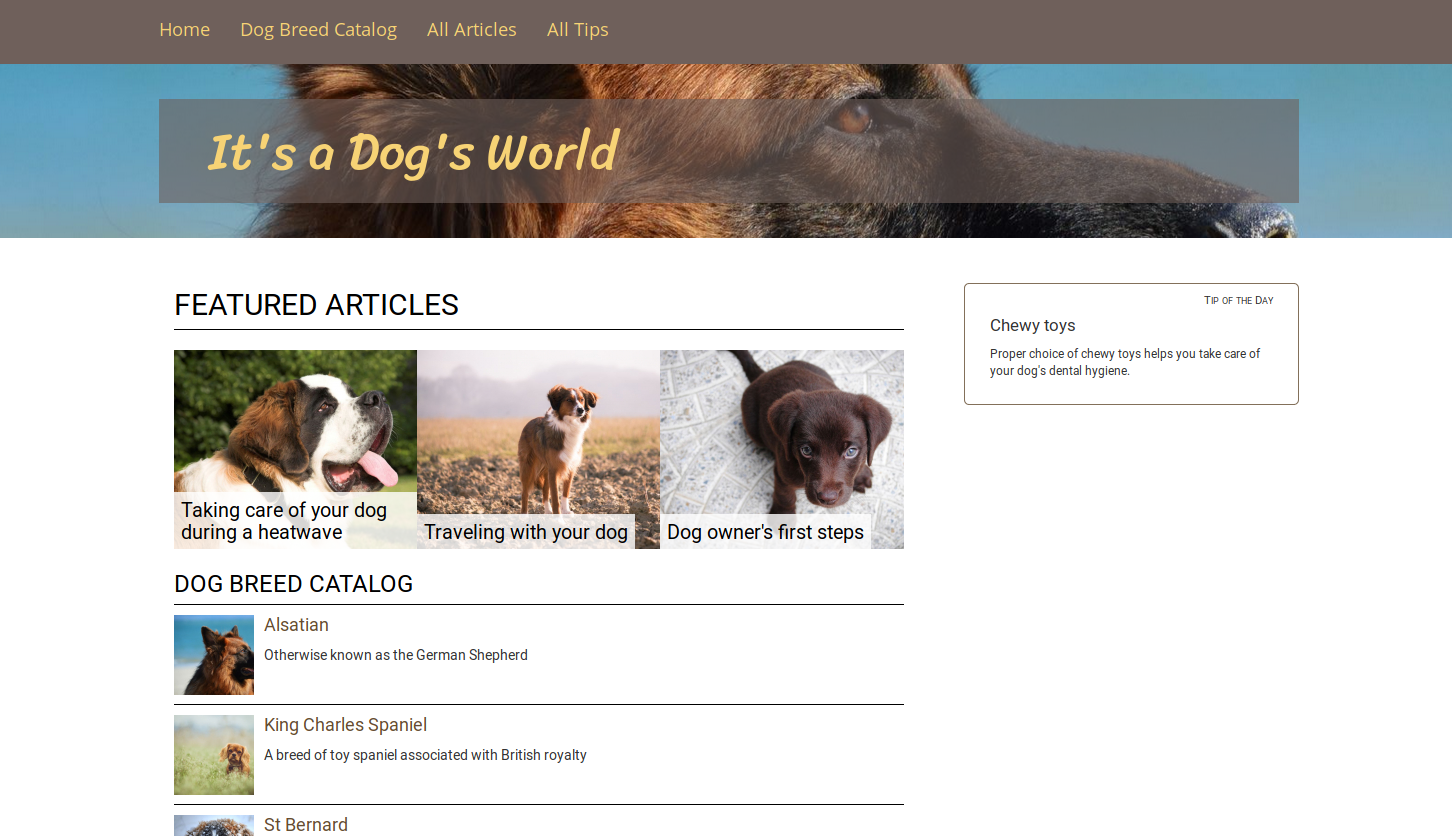
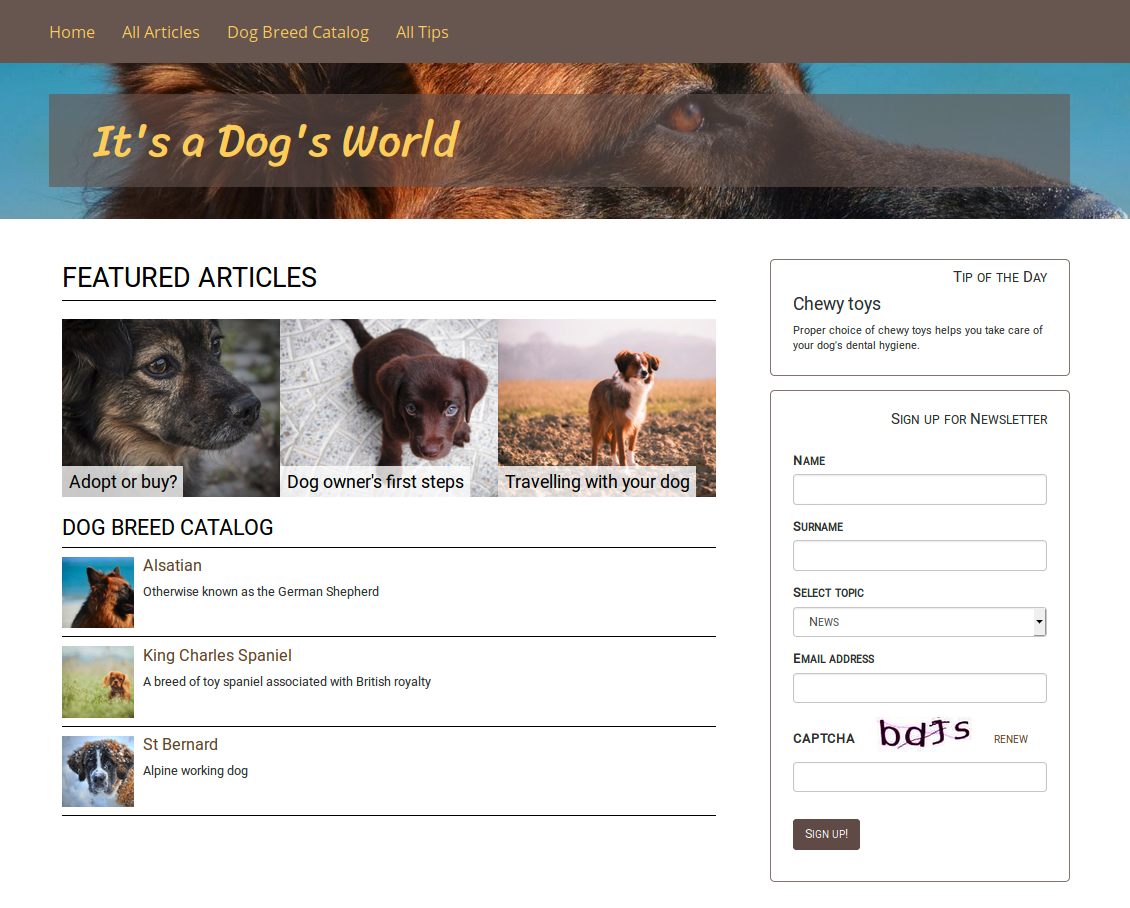
beta1

diff --git a/docs/tutorials/enterprise_beginner/5_create_newsletter_form.md b/docs/tutorials/enterprise_beginner/5_create_newsletter_form.md
@@ -9,7 +9,7 @@ The final step of this tutorial assists you in adding to the home page a Form bl
 
 Start with creating a Form Content item.
 In the **Forms** panel, click **Create** and select **Form**.
-Enter the title, e.g. "Sign up for Newsletter" and click **Create a form**.
+Provide the title, e.g. "Sign up for Newsletter" and click **Create a form**.
 
 In the Form Builder, add and configure (using the **Basic** and **Validation** tabs) the following form fields:
 
@@ -19,26 +19,26 @@ In the Form Builder, add and configure (using the **Basic** and **Validation** t
 |Single line input|Surname|no|Minimum length = 3|
 |Dropdown|Select topic|yes|Options:</br>- News</br>- Tips </br> - Articles|
 |Email|Email address|yes|—|
-|Captcha|CAPTCHA|yes|—|
+|Captcha|CAPTCHA|—|—|
 |Button|Sign up!|—|Action: Show a message</br>Message to display: Thank you!|
 
 The configuration should look like this:
 
 ![Adding Fields to Newsletter Form](img/enterprise_tut_form_creation.png "Adding Fields to Newsletter Form")
 
-After adding all fields, go to the previous menu and click **Publish**.
+When you add all the fields, go to the previous menu and click **Publish**.
 Now you can edit the Front Page and add a Form block below the Random block.
 Edit the block and select the form you created. Click **Submit**.
 
 The Page should refresh with the Form block.
 
-![Newsletter Form Block](img/enterprise_tut_first_form.png "Newsletter Form Block")
+![Newsletter Form Block](img/enterprise_tut_first_form.png "Raw Newsletter Form Block")
 
-It clearly differs from the page design, so let's proceed with customizing the block's layout.
+It clearly differs from the page design, so you also need to customize the block's layout.
 
 ### Change the block template
 
-First, add a new template for the Form block, using a similar design to the Random block.
+First, add a new template for the Form block to align it with the Random block design.
 Create an `app/Resources/views/blocks/form/newsletter.html.twig` file:
 
 ``` html+twig
@@ -54,7 +54,7 @@ Create an `app/Resources/views/blocks/form/newsletter.html.twig` file:
 </div>
 ```
 
-Append the new template to the block by adding to `app/config/layouts.yml`.
+Append the new template to the block by adding it to `app/config/layouts.yml`.
 Add the following configuration under the `blocks` key at the same level as other block names, e.g. `random`:
 
 ``` yaml hl_lines="3"
@@ -69,15 +69,15 @@ blocks:
 
 Now you have to apply the template to the block.
 Go back to editing the Page.
-Edit the Form block again, and in the **Design** tab, select the **Newsletter Form View**.
-Click **Submit**.
+Edit the Form block again. 
+In the **Design** tab, select the **Newsletter Form View** and click **Submit**.
 
 The block remains unchanged, but the results will be visible when you add CSS styling.
 
 ### Change the field template 
 
 At this point, you need to change the field template.
-This will result in alternating the position and design of the Form fields.
+This results in alternating the position and design of the Form fields.
 
 Create an `app/Resources/views/form_field.html.twig` file:
 
@@ -122,7 +122,7 @@ gregwar_captcha:
     length: 4
    
 ```
-The configuration resizes the CAPTCHA image (line 3), changes the error message (line 4), enables the user to reload the code (line 5), and changes shortens the code to four elements (line 6).
+The configuration resizes the CAPTCHA image (line 3), changes the error message (line 4), enables the user to reload the code (line 5), and shortens the authentication code (line 6).
 
 ### Add stylesheet
 
@@ -184,6 +184,8 @@ Your newsletter form block is ready.
 
 ![Newsletter Form Block](img/enterprise_tut_final_form.png "Newsletter Form Block")
 
+Open the home page and enter a couple of mock submissions.
+
 ### Manage the submissions
 
 You can view all submissions in the Back Office.
@@ -207,6 +209,5 @@ You have learned how to:
 - Create custom blocks
 - Use Form Builder and configure your form
 - Apply custom styling to blocks
-- Configure a bundle
 
 ![Final result of the tutorial](img/enterprise_tut_main_screen.png "Final result of the tutorial")

diff --git a/docs/tutorials/enterprise_beginner/1_get_a_starter_website.md b/docs/tutorials/enterprise_beginner/1_get_a_starter_website.md
@@ -48,7 +48,7 @@ Edit it to remove the Image Field that has a Content Relation (ezobjectrelation)
 
 | Field Type | Name  | Identifier | Required | Searchable | Translatable |
 |------------|-------|------------|----------|------------|--------------|
-| Image      | Image | `image`    |          |            | yes          |
+| Image      | Image | `image`    |no        |no          | yes          |
 
 ![New image Field in the Article Content Type](img/enterprise_tut_image_in_article_ct.png)
 

diff --git a/docs/tutorials/enterprise_beginner/ez_enterprise_beginner_tutorial_-_its_a_dogs_world.md b/docs/tutorials/enterprise_beginner/ez_enterprise_beginner_tutorial_-_its_a_dogs_world.md
@@ -16,6 +16,8 @@ After finishing this tutorial, you will:
 - Be able to create a Page and customize its layout
 - Be able to prepare and customize Page blocks
 - Be able to create a custom block
+- Know how to use Form Builder and configure your form
+- Know how to apply custom styling to blocks
 
 ## Scenario
 
